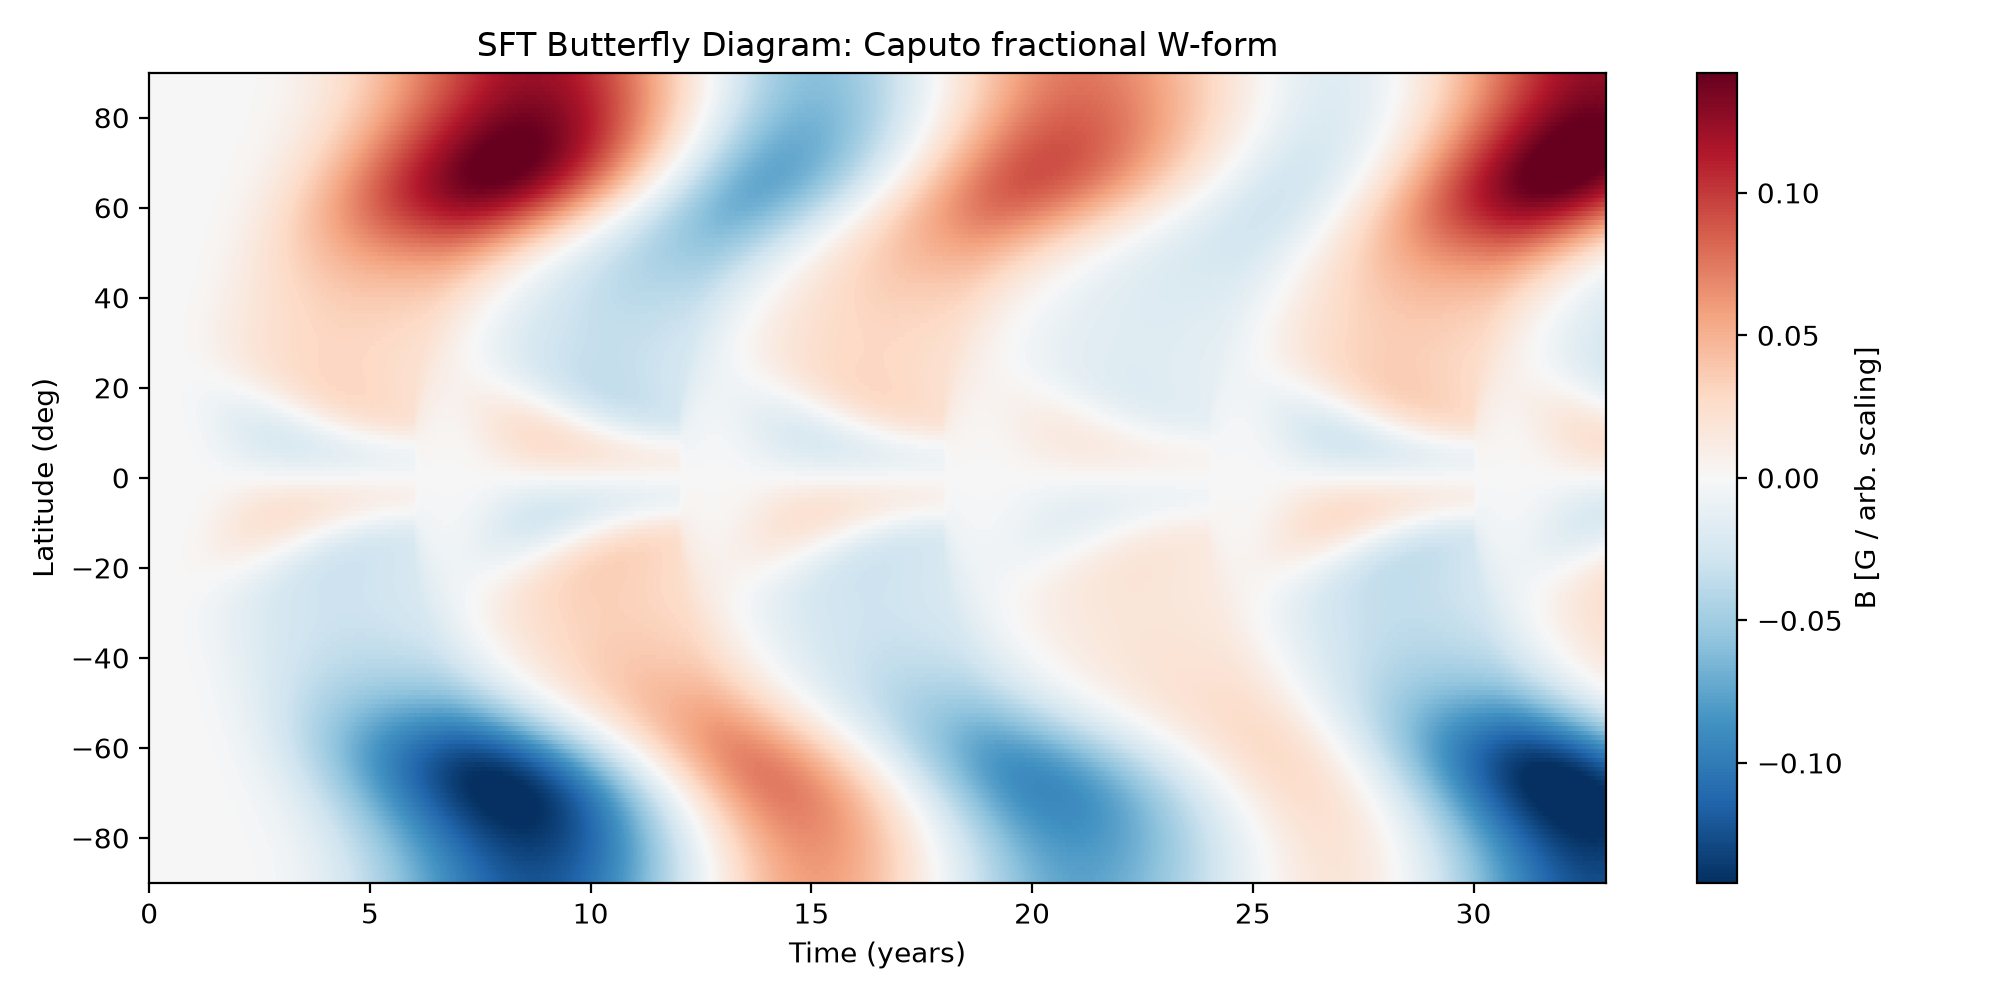
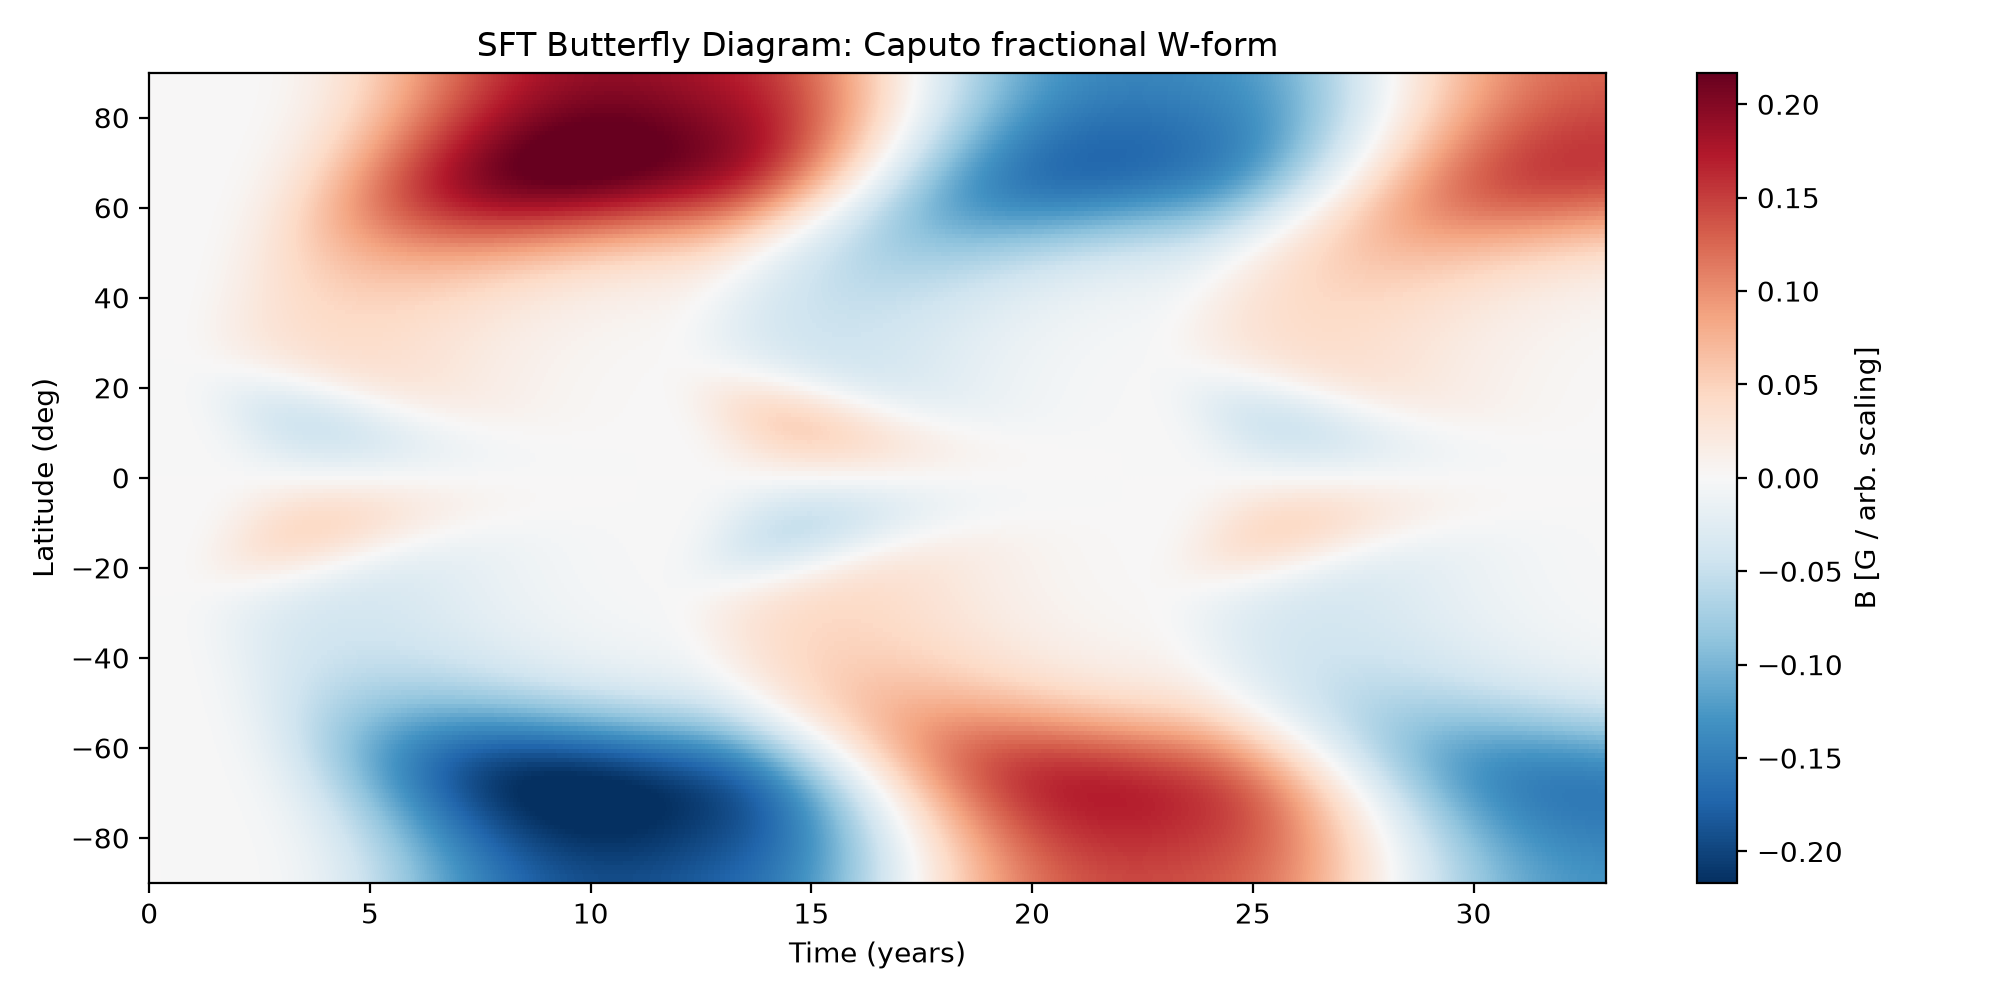
Set default activity cycle to 11 years
The Hathaway amplitude envelope (b=48.7 months) is calibrated for ~11-yr
cycles. With the previous 6-yr default, tc only reached 72 months, where the
envelope is still ~78% of its peak, so each cycle was truncated while strong
and reset abruptly to zero at the next boundary -- producing the near-zero
discontinuity bands seen between cycles in the butterfly diagram. An 11-yr
cycle lets the envelope taper to ~2.5% before each reset, so the wings and
polar-cap reversals transition smoothly.

- 1D_W_caputo_fixed.py: --cycle-years default 6 -> 11; TranspSource1D
  default cycleper_days 6 -> 11 yr.
- verify_advection.py: full_run source cycle 6 -> 11 yr.
- memory_diagnostics.py: intentionally left at 6 yr (its memory study packs
  more cycles into each run).
- Regenerate butterfly_W_caputo.png with the 11-yr cycle.

Claude-Session: https://claude.ai/code/session_017bo3WqqYSTJmVCtGKh4YyL

diff --git a/1D_W_caputo_fixed.py b/1D_W_caputo_fixed.py
@@ -134,7 +134,7 @@ class TranspSource1D:
         self,
         latitude_deg: np.ndarray,
         *,
-        cycleper_days: float = 6.0 * 365.25,
+        cycleper_days: float = 11.0 * 365.25,
         flowtype: int = 2,
         tau_seconds: float | None = None,
         blat: float = 0.0,
@@ -575,8 +575,9 @@ def _build_arg_parser() -> argparse.ArgumentParser:
                    help="Source amplitude scaling.")
     p.add_argument("--flowtype", type=int, default=2, choices=[1, 2, 3, 4, 5],
                    help="Meridional flow profile selector.")
-    p.add_argument("--cycle-years", type=float, default=6.0,
-                   help="Activity cycle period in years.")
+    p.add_argument("--cycle-years", type=float, default=11.0,
+                   help="Activity cycle period in years (matches the Hathaway "
+                        "envelope, which is tuned for ~11 yr).")
     # For q<1, this truncates the Caputo memory. Omit for full memory.
     p.add_argument("--short-memory", type=int, default=None,
                    help="Truncate Caputo memory to this many steps (default: full).")

diff --git a/verify_advection.py b/verify_advection.py
@@ -91,7 +91,7 @@ def full_run(n_theta, scheme, eta=600e6, years=18.0):  # eta = 600 km^2/s
     th0 = np.linspace(0.0, np.pi, n_theta)
     src = sft.TranspSource1D(
         latitude_deg=90.0 - np.rad2deg(th0),
-        cycleper_days=6.0 * 365.25, flowtype=2,
+        cycleper_days=11.0 * 365.25, flowtype=2,
         tau_seconds=10.0 * YEAR, blat=0.0, bjoy=0.0,
         seed=1, source_strength=0.02)
     dt = stable_dt(n_theta, eta)

diff --git a/README.md b/README.md
@@ -114,7 +114,7 @@ theta, t, B = sft.run_fractional_sft_1d_W(q=0.8, n_theta=181, dt=86400.0,
 | `τ`               | `--tau-years`        | 10     | radial-decay timescale (`≤0` disables) |
 | source amplitude  | `--source-strength`  | 0.02   | emergence-source scaling |
 | flow profile      | `--flowtype`         | 2      | meridional flow selector (1–5) |
-| cycle period      | `--cycle-years`      | 6      | activity cycle length |
+| cycle period      | `--cycle-years`      | 11     | activity cycle length (matches Hathaway envelope) |
 | memory truncation | `--short-memory`     | none   | L1 short-memory length (steps) |
 | advection         | `--advection-scheme` | vanleer| `vanleer` (TVD) or `upwind` |
 